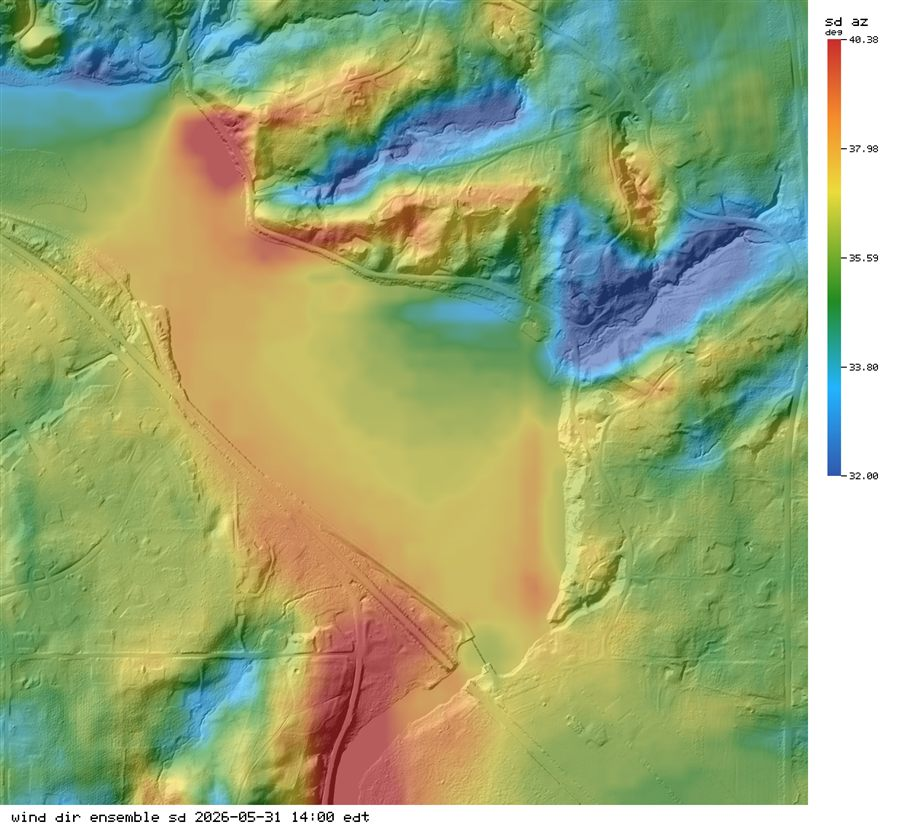
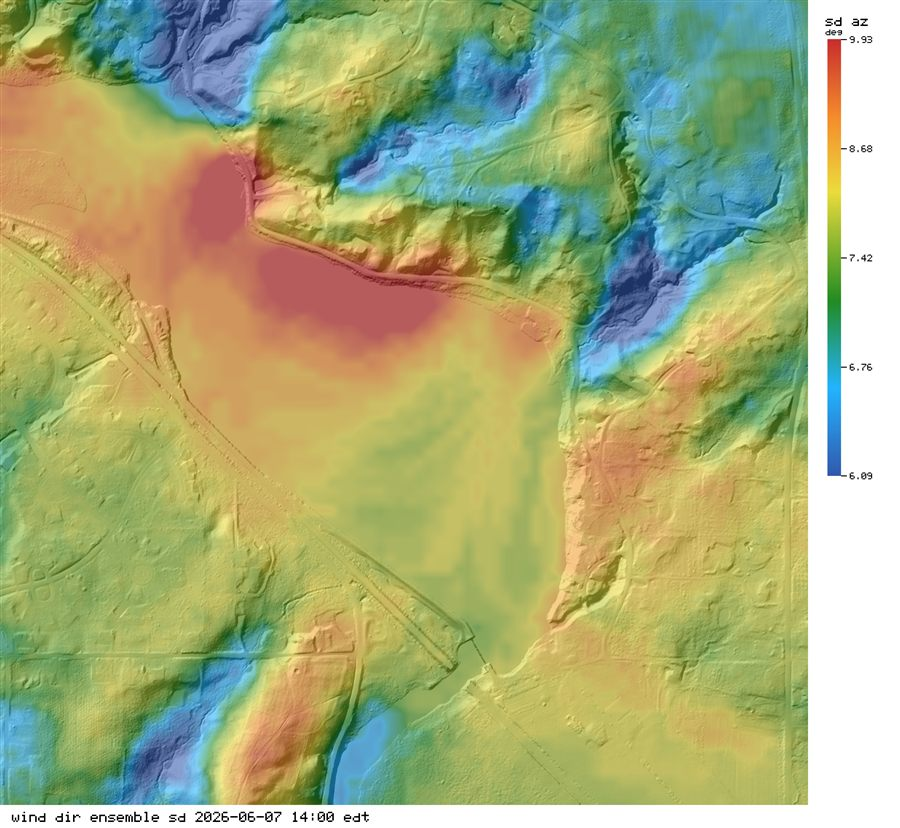
Publish latest PondWind report 2026-06-07 1400

diff --git a/index.html b/index.html
@@ -10,64 +10,64 @@
   <header class="site-header">
     <p class="eyebrow">PondWind</p>
     <h1>Latest Report</h1>
-    <p class="subtitle">Race time: 2026-05-31T14:00:00-04:00</p>
-    <p class="meta">Site: barton_pond &middot; Published: 2026-05-31T14:50:04.3333646Z</p>
+    <p class="subtitle">Race time: 2026-06-07T14:00:00-04:00</p>
+    <p class="meta">Site: barton_pond &middot; Published: 2026-06-07T15:05:29.5376494Z</p>
   </header>
   <main class="product-grid">
       <article class="product-card">
         <div class="product-meta">Wind</div>
         <h2>Wind Speed Prediction</h2>
-        <a href="latest/images/product_1_wind_speed_prediction_knots.png?v=2026-05-31T14%3A50%3A04.3333646Z"><img src="latest/images/product_1_wind_speed_prediction_knots.png?v=2026-05-31T14%3A50%3A04.3333646Z" alt="Wind Speed Prediction"></a>
+        <a href="latest/images/product_1_wind_speed_prediction_knots.png?v=2026-06-07T15%3A05%3A29.5376494Z"><img src="latest/images/product_1_wind_speed_prediction_knots.png?v=2026-06-07T15%3A05%3A29.5376494Z" alt="Wind Speed Prediction"></a>
       </article>
       <article class="product-card">
         <div class="product-meta">Wind</div>
         <h2>Wind Speed Ensemble SD</h2>
-        <a href="latest/images/product_2_wind_speed_variance_knots.png?v=2026-05-31T14%3A50%3A04.3333646Z"><img src="latest/images/product_2_wind_speed_variance_knots.png?v=2026-05-31T14%3A50%3A04.3333646Z" alt="Wind Speed Ensemble SD"></a>
+        <a href="latest/images/product_2_wind_speed_variance_knots.png?v=2026-06-07T15%3A05%3A29.5376494Z"><img src="latest/images/product_2_wind_speed_variance_knots.png?v=2026-06-07T15%3A05%3A29.5376494Z" alt="Wind Speed Ensemble SD"></a>
       </article>
       <article class="product-card">
         <div class="product-meta">Wind</div>
         <h2>Wind Direction Ensemble SD</h2>
-        <a href="latest/images/product_3_wind_direction_variance_degrees.png?v=2026-05-31T14%3A50%3A04.3333646Z"><img src="latest/images/product_3_wind_direction_variance_degrees.png?v=2026-05-31T14%3A50%3A04.3333646Z" alt="Wind Direction Ensemble SD"></a>
+        <a href="latest/images/product_3_wind_direction_variance_degrees.png?v=2026-06-07T15%3A05%3A29.5376494Z"><img src="latest/images/product_3_wind_direction_variance_degrees.png?v=2026-06-07T15%3A05%3A29.5376494Z" alt="Wind Direction Ensemble SD"></a>
       </article>
       <article class="product-card">
         <div class="product-meta">Experimental CFD</div>
         <h2>Experimental CFD/Adapter Comparison</h2>
-        <a href="latest/images/product_4_openfoam_experimental_cfd_knots.png?v=2026-05-31T14%3A50%3A04.3333646Z"><img src="latest/images/product_4_openfoam_experimental_cfd_knots.png?v=2026-05-31T14%3A50%3A04.3333646Z" alt="Experimental CFD/Adapter Comparison"></a>
+        <a href="latest/images/product_4_openfoam_experimental_cfd_knots.png?v=2026-06-07T15%3A05%3A29.5376494Z"><img src="latest/images/product_4_openfoam_experimental_cfd_knots.png?v=2026-06-07T15%3A05%3A29.5376494Z" alt="Experimental CFD/Adapter Comparison"></a>
       </article>
       <article class="product-card">
         <div class="product-meta">Experimental CFD</div>
         <h2>Experimental CFD Turbulence Intensity</h2>
-        <a href="latest/images/product_5_openfoam_turbulence_intensity_percent.png?v=2026-05-31T14%3A50%3A04.3333646Z"><img src="latest/images/product_5_openfoam_turbulence_intensity_percent.png?v=2026-05-31T14%3A50%3A04.3333646Z" alt="Experimental CFD Turbulence Intensity"></a>
+        <a href="latest/images/product_5_openfoam_turbulence_intensity_percent.png?v=2026-06-07T15%3A05%3A29.5376494Z"><img src="latest/images/product_5_openfoam_turbulence_intensity_percent.png?v=2026-06-07T15%3A05%3A29.5376494Z" alt="Experimental CFD Turbulence Intensity"></a>
       </article>
       <article class="product-card">
         <div class="product-meta">Sailing</div>
         <h2>Experimental ILCA Relative Polar</h2>
-        <a href="latest/images/product_6_sailing_polar_dem_overlay.png?v=2026-05-31T14%3A50%3A04.3333646Z"><img src="latest/images/product_6_sailing_polar_dem_overlay.png?v=2026-05-31T14%3A50%3A04.3333646Z" alt="Experimental ILCA Relative Polar"></a>
+        <a href="latest/images/product_6_sailing_polar_dem_overlay.png?v=2026-06-07T15%3A05%3A29.5376494Z"><img src="latest/images/product_6_sailing_polar_dem_overlay.png?v=2026-06-07T15%3A05%3A29.5376494Z" alt="Experimental ILCA Relative Polar"></a>
       </article>
       <article class="product-card">
         <div class="product-meta">Sailing</div>
         <h2>Experimental CFD Relative Polar</h2>
-        <a href="latest/images/product_7_openfoam_sailing_polar_dem_overlay.png?v=2026-05-31T14%3A50%3A04.3333646Z"><img src="latest/images/product_7_openfoam_sailing_polar_dem_overlay.png?v=2026-05-31T14%3A50%3A04.3333646Z" alt="Experimental CFD Relative Polar"></a>
+        <a href="latest/images/product_7_openfoam_sailing_polar_dem_overlay.png?v=2026-06-07T15%3A05%3A29.5376494Z"><img src="latest/images/product_7_openfoam_sailing_polar_dem_overlay.png?v=2026-06-07T15%3A05%3A29.5376494Z" alt="Experimental CFD Relative Polar"></a>
       </article>
       <article class="product-card">
         <div class="product-meta">Satellite</div>
         <h2>Latest RGB Satellite</h2>
-        <a href="latest/images/satellite_rgb_latest.png?v=2026-05-31T14%3A50%3A04.3333646Z"><img src="latest/images/satellite_rgb_latest.png?v=2026-05-31T14%3A50%3A04.3333646Z" alt="Latest RGB Satellite"></a>
+        <a href="latest/images/satellite_rgb_latest.png?v=2026-06-07T15%3A05%3A29.5376494Z"><img src="latest/images/satellite_rgb_latest.png?v=2026-06-07T15%3A05%3A29.5376494Z" alt="Latest RGB Satellite"></a>
       </article>
       <article class="product-card">
         <div class="product-meta">Satellite</div>
         <h2>Surface Temperature Over Water</h2>
-        <a href="latest/images/satellite_sst_latest.png?v=2026-05-31T14%3A50%3A04.3333646Z"><img src="latest/images/satellite_sst_latest.png?v=2026-05-31T14%3A50%3A04.3333646Z" alt="Surface Temperature Over Water"></a>
+        <a href="latest/images/satellite_sst_latest.png?v=2026-06-07T15%3A05%3A29.5376494Z"><img src="latest/images/satellite_sst_latest.png?v=2026-06-07T15%3A05%3A29.5376494Z" alt="Surface Temperature Over Water"></a>
       </article>
       <article class="product-card">
         <div class="product-meta">Satellite</div>
         <h2>Experimental Chlorophyll-a Index</h2>
-        <a href="latest/images/satellite_chla_estimated.png?v=2026-05-31T14%3A50%3A04.3333646Z"><img src="latest/images/satellite_chla_estimated.png?v=2026-05-31T14%3A50%3A04.3333646Z" alt="Experimental Chlorophyll-a Index"></a>
+        <a href="latest/images/satellite_chla_estimated.png?v=2026-06-07T15%3A05%3A29.5376494Z"><img src="latest/images/satellite_chla_estimated.png?v=2026-06-07T15%3A05%3A29.5376494Z" alt="Experimental Chlorophyll-a Index"></a>
       </article>
       <article class="product-card">
         <div class="product-meta">Satellite</div>
         <h2>Experimental Turbidity Index</h2>
-        <a href="latest/images/satellite_turbidity_estimated.png?v=2026-05-31T14%3A50%3A04.3333646Z"><img src="latest/images/satellite_turbidity_estimated.png?v=2026-05-31T14%3A50%3A04.3333646Z" alt="Experimental Turbidity Index"></a>
+        <a href="latest/images/satellite_turbidity_estimated.png?v=2026-06-07T15%3A05%3A29.5376494Z"><img src="latest/images/satellite_turbidity_estimated.png?v=2026-06-07T15%3A05%3A29.5376494Z" alt="Experimental Turbidity Index"></a>
       </article>
   </main>
   <footer class="site-footer">
